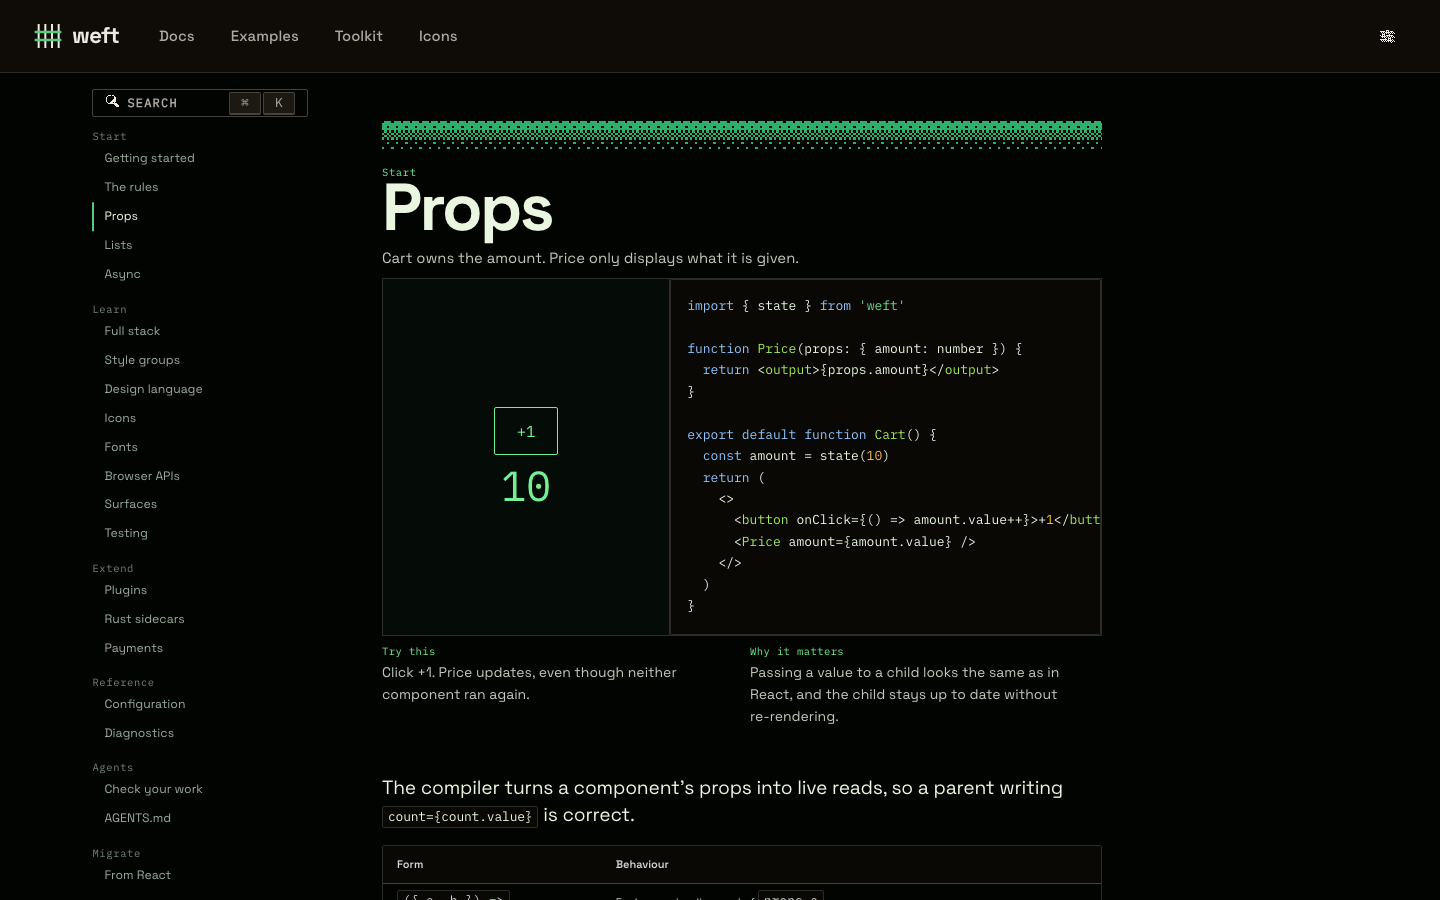
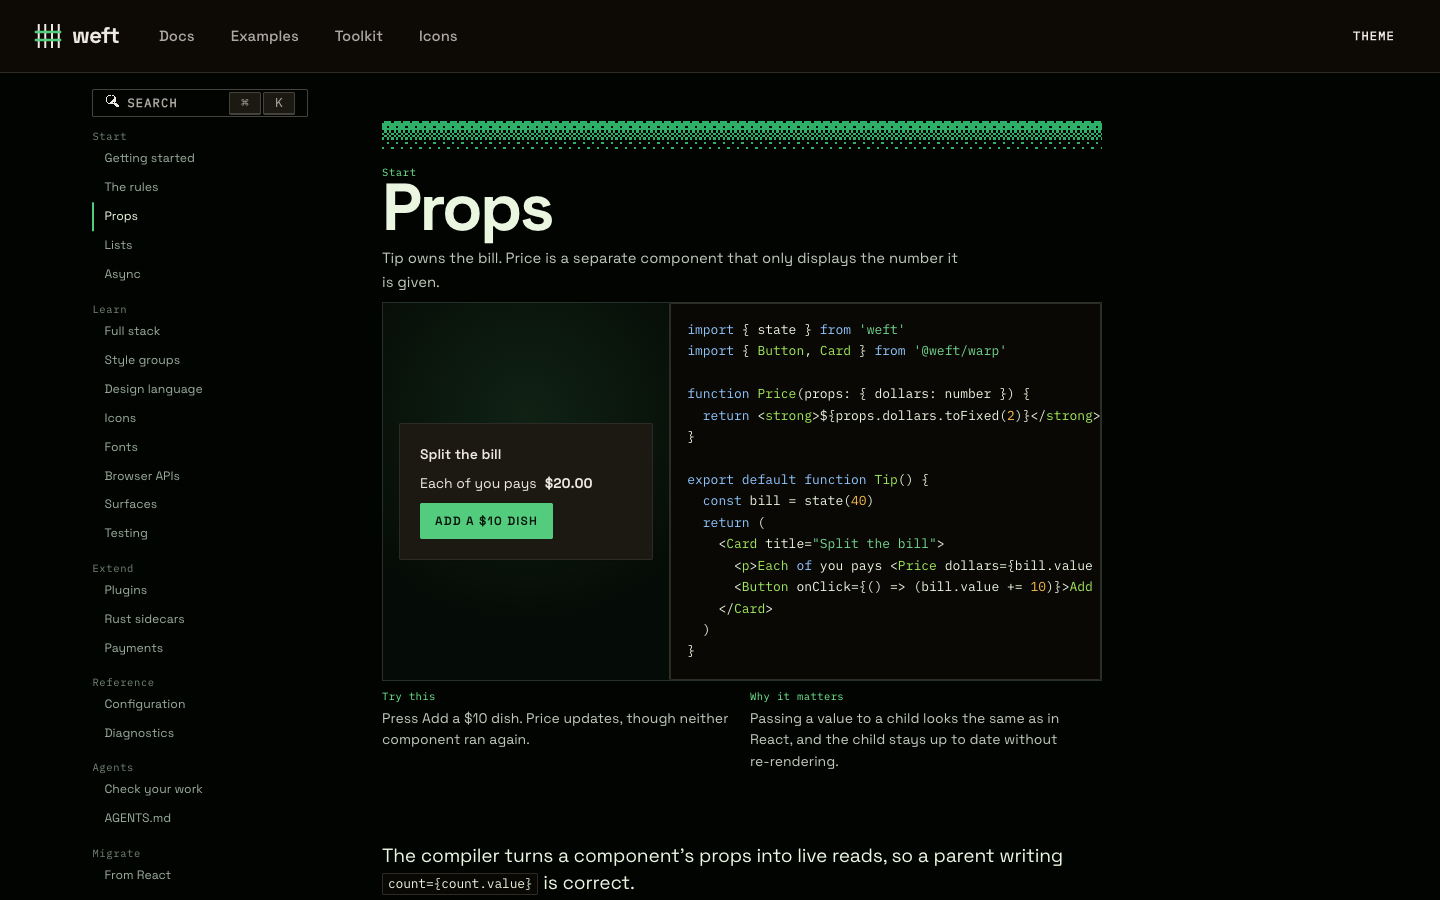
Grow one small shop through the landing
Each section adds one idea to the same shop, with the new lines marked,
then the comparison and download proof. The docs page no longer hydrates
whole for its example, and the rail stays one island.

diff --git a/site/src/routes/index.tsx b/site/src/routes/index.tsx
@@ -3,15 +3,16 @@ import { Arena } from '../components/Arena'
 import { Example } from '../components/Example'
 import { Fix } from '../components/Fix'
 import { Loom } from '../components/Loom'
+import show from '../generated/showcase.json'
 
 export const prerender = true
 export const meta: Meta = { title: { absolute: 'weft: a TypeScript framework for fast web apps' }, description: 'Write components in TSX. weft compiles them to small, direct page updates, with routing, data, a UI kit and errors your coding agent can act on.' }
 
 const SIZES = [['weft + warp', 22949], ['Solid + Kobalte', 48502], ['React + Radix', 100669], ['React + MUI', 245376]] as const
-const FILES = `src/routes/index.tsx       the / page
-src/routes/todos/[id].tsx  the /todos/:id page
-src/server/todos.ts        queries and mutations
-src/db/schema.ts           your tables`
+const FILES = `src/routes/index.tsx          the / page
+src/routes/products/[id].tsx  the /products/:id page
+src/server/shop.ts            queries and mutations
+src/db/schema.ts              your tables`
 
 export default function Home() {
   return (
@@ -31,16 +32,45 @@ export default function Home() {
       </section>
 
       <div data-site="story">
+        <p data-part="lead">Here is a small shop, built one idea at a time. Each step adds a few lines, marked in the code, and each one is running.</p>
+
         <section>
           <h2>You already know how to write this</h2>
-          <p data-part="intro">A weft component is a function that returns TSX. Keep a value in <code>state</code>, show it, change it. There is no new template language, and your component function runs only once, so there are no dependency arrays to get right.</p>
-          <Example id="getting-started" plain />
+          <p data-part="intro">A weft component is a function that returns TSX. Keep a value in <code>state</code>, show it, change it. There is no new template language to learn.</p>
+          <Example id="shop-1" plain />
+        </section>
+
+        <section>
+          <h2>Values that keep themselves right</h2>
+          <p data-part="intro">Say how a value is worked out, and weft keeps it current. The shop gets a total and free shipping over $36.</p>
+          <Example id="shop-2" plain />
         </section>
 
         <section>
           <h2>Only what changed gets updated</h2>
-          <p data-part="intro">Most frameworks re-run your component and compare the result to find what changed. weft works that out at compile time, so a change goes straight to the piece of the page it affects. Your app stays quick as it grows, without tuning.</p>
-          <Example id="prices" plain />
+          <p data-part="intro">Most frameworks re-run your component and compare the result to find what changed. weft works that out when it compiles, so a change goes straight to the piece of the page it affects. The shop gets more products, and stays just as quick.</p>
+          <Example id="shop-3" plain />
+        </section>
+
+        <section>
+          <h2>No wiring between the parts</h2>
+          <p data-part="intro">The shop gets a search box. It is one new value and one line of filtering, and everything that depends on it follows.</p>
+          <Example id="shop-4" plain />
+        </section>
+
+        <section>
+          <h2>A UI kit comes with it</h2>
+          <p data-part="intro">The buttons and fields so far are warp, weft's own component library: 227 components, with keyboard support, themes and 651 icons. The shop gets a checkout.</p>
+          <Example id="shop-5" plain />
+          <p data-part="more"><Link href="/toolkit">Browse the toolkit</Link></p>
+        </section>
+
+        <section>
+          <h2>One project, front to back</h2>
+          <p data-part="intro">A real shop keeps its products in a database. With <code>@weft/start</code>, a server query lives beside your components, and each file in <code>src/routes</code> is a page. Database and sign-in are built in, so the whole app is one codebase.</p>
+          <div data-part="server" data-scope="codeblock" innerHTML={show.server}></div>
+          <pre data-part="files"><code>{FILES}</code></pre>
+          <p data-part="more"><Link href="/docs/start">Read about full-stack weft</Link></p>
         </section>
 
         <Arena />
@@ -52,20 +82,6 @@ export default function Home() {
             {SIZES.map(([name, bytes]) => <li key={name} style={`--share:${bytes / SIZES[3][1]}`}><span>{name}</span><i></i><b>{(bytes / 1024).toFixed(1)} KB</b></li>)}
           </ul>
           <p data-part="note">JavaScript sent to the browser, compressed with brotli, from this repo's <a href="https://github.com/Ravonus/weft/tree/main/evals/compare" rel="external">comparison app</a>.</p>
-        </section>
-
-        <section>
-          <h2>A UI kit comes with it</h2>
-          <p data-part="intro">warp is weft's own component library: 227 components, with keyboard support, themes and 651 icons. You can build a real screen on day one instead of picking and wiring up a library.</p>
-          <Example id="ui-kit" plain />
-          <p data-part="more"><Link href="/toolkit">Browse the toolkit</Link></p>
-        </section>
-
-        <section>
-          <h2>One project, front to back</h2>
-          <p data-part="intro">With <code>@weft/start</code>, each file in <code>src/routes</code> is a page, and functions in <code>src/server</code> run on the server and can be called from your components. Database and sign-in are built in too, so a whole app lives in one codebase.</p>
-          <pre data-part="files"><code>{FILES}</code></pre>
-          <p data-part="more"><Link href="/docs/start">Read about full-stack weft</Link></p>
         </section>
 
         <Fix />

diff --git a/site/src/demos/index.ts b/site/src/demos/index.ts
@@ -8,11 +8,46 @@ import kit from './ui-kit'
 import search from './search'
 import shared from './shared'
 import habit from './habit'
+import shop1 from './shop-1'
+import shop2 from './shop-2'
+import shop3 from './shop-3'
+import shop4 from './shop-4'
+import shop5 from './shop-5'
 
 export type Demo = { run: () => any; title: string; look: string; tryIt: string; why: string; page?: string }
 
 /** Every live example, with the words that say what it is. The landing, the examples page and the docs read this. */
 export const demos: Record<string, Demo> = {
+  'shop-1': {
+    run: shop1, title: 'The shop, step 1',
+    look: 'One product and an add-to-cart button. count is state: a value the page shows and can change.',
+    tryIt: 'Press Add to cart. The badge counts up.',
+    why: 'This is a plain function returning TSX, so what you know from React carries over. Shop runs once, so there are no hook rules or dependency lists.',
+  },
+  'shop-2': {
+    run: shop2, title: 'The shop, step 2',
+    look: 'The total and shipping are new, marked in the code. Neither is set by hand: derived works each one out from count.',
+    tryIt: 'Add three coffees and watch shipping drop to $0 as the total passes $36.',
+    why: 'You state a rule once and it can never go stale. Carts and forms get most of their bugs from keeping values like these in sync by hand.',
+  },
+  'shop-3': {
+    run: shop3, title: 'The shop, step 3',
+    look: 'Now three products, each with its own count. The list is an ordinary .map, and the total adds them up.',
+    tryIt: 'Add a grinder, then a filter. Only that row and the total change.',
+    why: 'A click updates the one badge and the total, not the list around them, however long it gets. You write no memo or optimisation to get that.',
+  },
+  'shop-4': {
+    run: shop4, title: 'The shop, step 4',
+    look: 'A search box. shown is derived from what you type, in one line of ordinary JavaScript.',
+    tryIt: 'Add a coffee, type gr, then clear the box. Your count is still there.',
+    why: 'There is nothing to wire up: no effect, no event bus. Rows keep their state when they leave the list and come back.',
+  },
+  'shop-5': {
+    run: shop5, title: 'The shop, step 5',
+    look: 'A checkout form from warp, so the shop now has a labelled field, a switch and a submit button.',
+    tryIt: 'Press Tab to move through the controls, then place the order.',
+    why: 'Forms, dialogs, tables and menus are in the box with keyboard support, so you do not pick and wire up a component library.',
+  },
   'getting-started': {
     run: started, page: 'getting-started', title: 'An add-to-cart button',
     look: 'A product card. inCart is a piece of state: a value the page shows and can change.',

diff --git a/site/src/routes/docs/[...slug].tsx b/site/src/routes/docs/[...slug].tsx
@@ -1,8 +1,7 @@
 import { notFound, type LoadArgs, type Meta, type RouteProps } from '@weft/start'
 import { Link } from '@weft/start'
 import { Button, Nav } from '@weft/warp'
-import { Example } from '../../components/Example'
-import { demos } from '../../demos'
+import { PageExample } from '../../components/Example'
 import pages from '../../generated/docs.json'
 
 const all = pages as unknown as Record<string, { slug: string; title: string; section: string; html: string; description: string; toc: { id: string; text: string }[]; prev?: { slug: string; title: string }; next?: { slug: string; title: string }; parent?: { slug: string; title: string } }>
@@ -11,8 +10,7 @@ export const load = ({ params }: LoadArgs<'/docs/[...slug]'>) => all[params.slug
 export const meta: Meta<typeof load> = ({ data }) => ({ title: data.title, description: data.description })
 export const prerender = () => Object.keys(all).map(slug => ({ slug }))
 
-const demoFor = (slug: string) => Object.keys(demos).find(id => demos[id].page === slug)
-
+/* @weft client */
 function Toc(props: { items: { id: string; text: string }[] }) {
   return <Nav label="On this page" axis="y" spy>{props.items.map(t => <a key={t.id} href={`#${t.id}`}>{t.text}</a>)}</Nav>
 }
@@ -25,7 +23,7 @@ export default function DocPage(props: RouteProps<typeof load, '/docs/[...slug]'
           <p data-part="crumb">{props.data.parent ? <Link href={`/docs/${props.data.parent.slug}`}>{props.data.parent.title}</Link> : props.data.section}</p>
           <h1>{props.data.title}</h1>
         </header>
-        {demoFor(props.data.slug) && <Example id={demoFor(props.data.slug)!} plain />}
+        <PageExample slug={props.data.slug} />
         <div data-scope="prose" innerHTML={props.data.html}></div>
         <footer data-part="pager">
           {props.data.prev && <Link href={`/docs/${props.data.prev.slug}`} class="prev"><span>Previous</span>{props.data.prev.title}</Link>}

diff --git a/site/src/demos/shop-5.tsx b/site/src/demos/shop-5.tsx
@@ -1,0 +1,38 @@
+import { derived, state } from 'weft'
+import { Badge, Button, Card, Input, Switch } from '@weft/warp'
+
+const products = [
+  { id: 1, name: 'Coffee', price: 12, count: state(0) },
+  { id: 2, name: 'Filters', price: 5, count: state(0) },
+  { id: 3, name: 'Grinder', price: 40, count: state(0) },
+]
+
+export default function Shop() {
+  const search = state('')
+  const ordered = state(false)
+  const shown = derived(() => products.filter(p => p.name.toLowerCase().includes(search.value.toLowerCase())))
+  const total = derived(() => products.reduce((sum, p) => sum + p.count.value * p.price, 0))
+  const shipping = derived(() => (total.value >= 36 ? 0 : 4))
+  const order = (e: Event) => {
+    e.preventDefault()
+    ordered.value = true
+  }
+  return (
+    <Card title="Shop">
+      <Input label="Search" value={search.value} onInput={(e: any) => (search.value = e.currentTarget.value)} />
+      {shown.value.map(p => (
+        <p key={p.id}>
+          <Button size="sm" onClick={() => p.count.value++}>{p.name}, ${p.price}</Button>
+          <Badge count>{p.count.value}</Badge>
+        </p>
+      ))}
+      <p>Shipping ${shipping.value}</p>
+      <p><strong>Total ${total.value + shipping.value}</strong></p>
+      <form onSubmit={order}>
+        <Input label="Email for the receipt" type="email" />
+        <Switch defaultChecked>Gift wrap</Switch>
+        <Button type="submit">{ordered.value ? 'Order placed' : 'Place order'}</Button>
+      </form>
+    </Card>
+  )
+}

diff --git a/site/src/styles/site.css b/site/src/styles/site.css
@@ -57,6 +57,9 @@
   [data-site="story"] h2 { font-family: var(--warp-font-sans); font-weight: 700; font-size: clamp(2rem, 1.3rem + 2.4vw, 3.25rem); line-height: 1.08; letter-spacing: -0.03em; color: oklch(0.97 0.03 130); }
   [data-part="intro"] { max-inline-size: 65ch; margin-block: var(--warp-space-group); font-size: 1.125rem; line-height: 1.6; color: oklch(0.85 0.02 130); }
   [data-part="intro"] code, [data-site="fix"] code { font-family: var(--warp-font-mono); font-size: 0.92em; }
+  [data-part="lead"] { box-sizing: border-box; inline-size: 100%; max-inline-size: 1120px; margin-inline: auto; font-size: clamp(1.25rem, 1rem + 1vw, 1.75rem); line-height: 1.35; letter-spacing: -0.015em; color: oklch(0.95 0.03 130); }
+  [data-part="server"] { margin-block-end: var(--warp-space-related); border: 1px solid oklch(0.3 0.02 150); background: oklch(0.14 0.015 150); }
+  [data-part="server"] pre { margin: 0; padding: var(--warp-space-group); overflow-x: auto; font-size: 0.875rem; line-height: 1.6; }
   [data-part="note"] { max-inline-size: 75ch; margin-block-start: var(--warp-space-related); font-size: 0.9375rem; line-height: 1.55; color: oklch(0.72 0.03 150); }
   [data-part="more"] { margin-block-start: var(--warp-space-related); }
   [data-part="sizes"] { display: grid; gap: var(--warp-space-related); margin: 0; padding: 0; list-style: none; font-family: var(--warp-font-mono); }

diff --git a/site/src/demos/shop-4.tsx b/site/src/demos/shop-4.tsx
@@ -1,0 +1,28 @@
+import { derived, state } from 'weft'
+import { Badge, Button, Card, Input } from '@weft/warp'
+
+const products = [
+  { id: 1, name: 'Coffee', price: 12, count: state(0) },
+  { id: 2, name: 'Filters', price: 5, count: state(0) },
+  { id: 3, name: 'Grinder', price: 40, count: state(0) },
+]
+
+export default function Shop() {
+  const search = state('')
+  const shown = derived(() => products.filter(p => p.name.toLowerCase().includes(search.value.toLowerCase())))
+  const total = derived(() => products.reduce((sum, p) => sum + p.count.value * p.price, 0))
+  const shipping = derived(() => (total.value >= 36 ? 0 : 4))
+  return (
+    <Card title="Shop">
+      <Input label="Search" value={search.value} onInput={(e: any) => (search.value = e.currentTarget.value)} />
+      {shown.value.map(p => (
+        <p key={p.id}>
+          <Button size="sm" onClick={() => p.count.value++}>{p.name}, ${p.price}</Button>
+          <Badge count>{p.count.value}</Badge>
+        </p>
+      ))}
+      <p>Shipping ${shipping.value}</p>
+      <p><strong>Total ${total.value + shipping.value}</strong></p>
+    </Card>
+  )
+}

diff --git a/site/src/demos/shop-3.tsx b/site/src/demos/shop-3.tsx
@@ -1,0 +1,25 @@
+import { derived, state } from 'weft'
+import { Badge, Button, Card } from '@weft/warp'
+
+const products = [
+  { id: 1, name: 'Coffee', price: 12, count: state(0) },
+  { id: 2, name: 'Filters', price: 5, count: state(0) },
+  { id: 3, name: 'Grinder', price: 40, count: state(0) },
+]
+
+export default function Shop() {
+  const total = derived(() => products.reduce((sum, p) => sum + p.count.value * p.price, 0))
+  const shipping = derived(() => (total.value >= 36 ? 0 : 4))
+  return (
+    <Card title="Shop">
+      {products.map(p => (
+        <p key={p.id}>
+          <Button size="sm" onClick={() => p.count.value++}>{p.name}, ${p.price}</Button>
+          <Badge count>{p.count.value}</Badge>
+        </p>
+      ))}
+      <p>Shipping ${shipping.value}</p>
+      <p><strong>Total ${total.value + shipping.value}</strong></p>
+    </Card>
+  )
+}

diff --git a/site/src/styles/example.css b/site/src/styles/example.css
@@ -22,3 +22,5 @@
 [data-site="example"] [data-part="tags"] > * { inline-size: auto; }
 [data-site="example"] pre { white-space: pre; }
 [data-site="example"] [data-part="panes"] { display: grid; grid-template-columns: 1fr 1fr; gap: 10px; inline-size: 100%; }
+[data-site="example"] [data-new] { display: block; margin-inline: calc(var(--warp-space-group) * -1); padding-inline: calc(var(--warp-space-group) - 3px) var(--warp-space-group); border-inline-start: 3px solid oklch(0.86 0.17 150); background: oklch(0.86 0.17 150 / 0.1); }
+[data-site="example"] [data-scope="surface"] p { display: flex; align-items: center; gap: 8px; }

diff --git a/site/src/routes/examples/index.tsx b/site/src/routes/examples/index.tsx
@@ -10,7 +10,7 @@ export default function Examples() {
     <div data-site="page" data-part="reading">
       <h1>Examples</h1>
       <p data-part="intro">Each of these is running on this page, and the code beside it is the code that is running. New to weft? Start at the top. <Link href="/docs/getting-started">Set up a project</Link> when you want to try one yourself.</p>
-      {Object.keys(demos).map(id => <Example key={id} id={id} />)}
+      {Object.keys(demos).filter(id => !id.startsWith('shop-')).map(id => <Example key={id} id={id} />)}
     </div>
   )
 }

diff --git a/site/src/demos/shop-2.tsx b/site/src/demos/shop-2.tsx
@@ -1,0 +1,16 @@
+import { derived, state } from 'weft'
+import { Badge, Button, Card } from '@weft/warp'
+
+export default function Shop() {
+  const count = state(0)
+  const total = derived(() => count.value * 12)
+  const shipping = derived(() => (total.value >= 36 ? 0 : 4))
+  return (
+    <Card title="Coffee, $12">
+      <Button onClick={() => count.value++}>Add to cart</Button>
+      <Badge count>{count.value}</Badge>
+      <p>Shipping ${shipping.value}</p>
+      <p><strong>Total ${total.value + shipping.value}</strong></p>
+    </Card>
+  )
+}

diff --git a/site/src/components/Example.tsx b/site/src/components/Example.tsx
@@ -24,3 +24,8 @@ export function Example(props: { id: string; plain?: boolean }) {
     </section>
   )
 }
+
+/** The example a docs page opens with, if it has one. */
+export function PageExample(props: { slug: string }) {
+  return <>{Object.keys(demos).filter(id => demos[id].page === props.slug).map(id => <Example key={id} id={id} plain />)}</>
+}

diff --git a/site/src/demos/shop-1.tsx b/site/src/demos/shop-1.tsx
@@ -1,0 +1,12 @@
+import { state } from 'weft'
+import { Badge, Button, Card } from '@weft/warp'
+
+export default function Shop() {
+  const count = state(0)
+  return (
+    <Card title="Coffee, $12">
+      <Button onClick={() => count.value++}>Add to cart</Button>
+      <Badge count>{count.value}</Badge>
+    </Card>
+  )
+}
